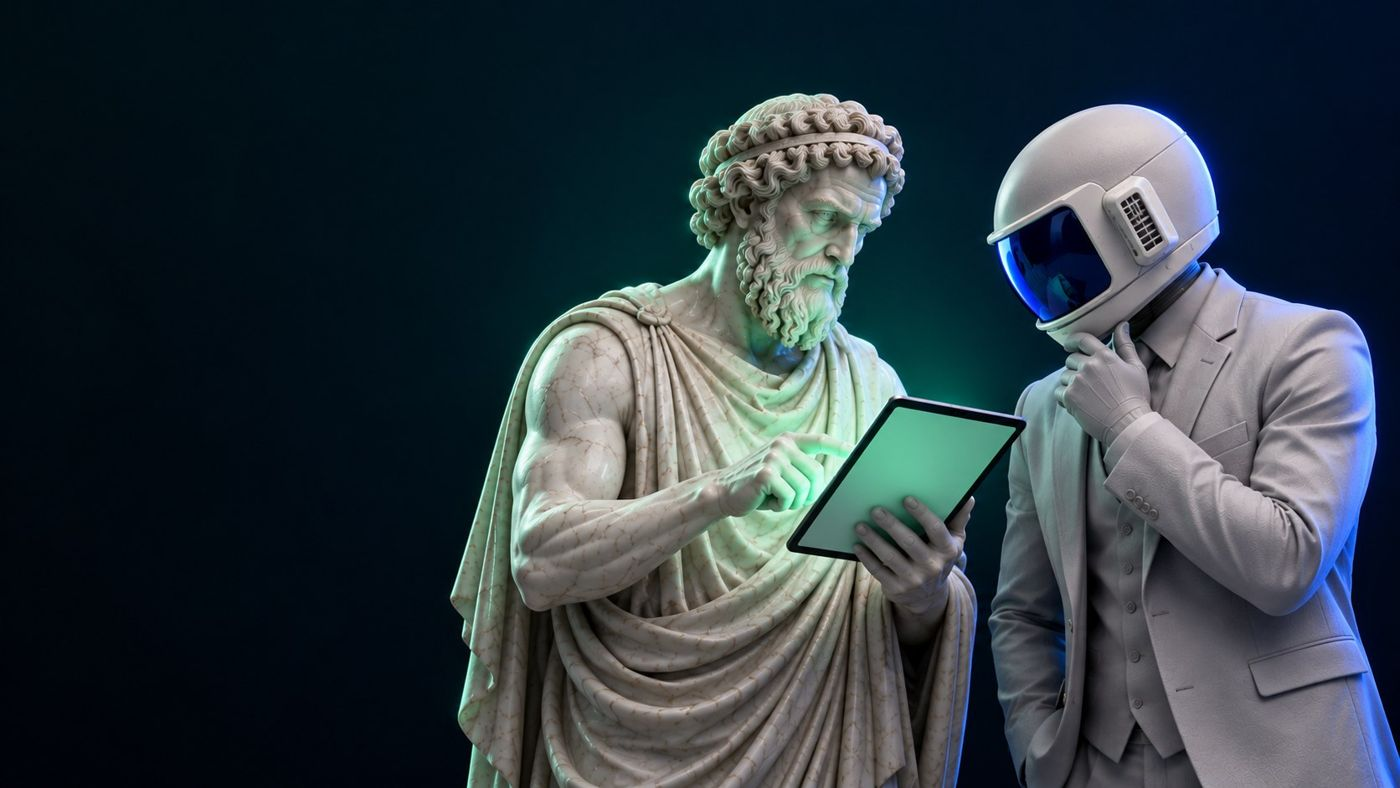
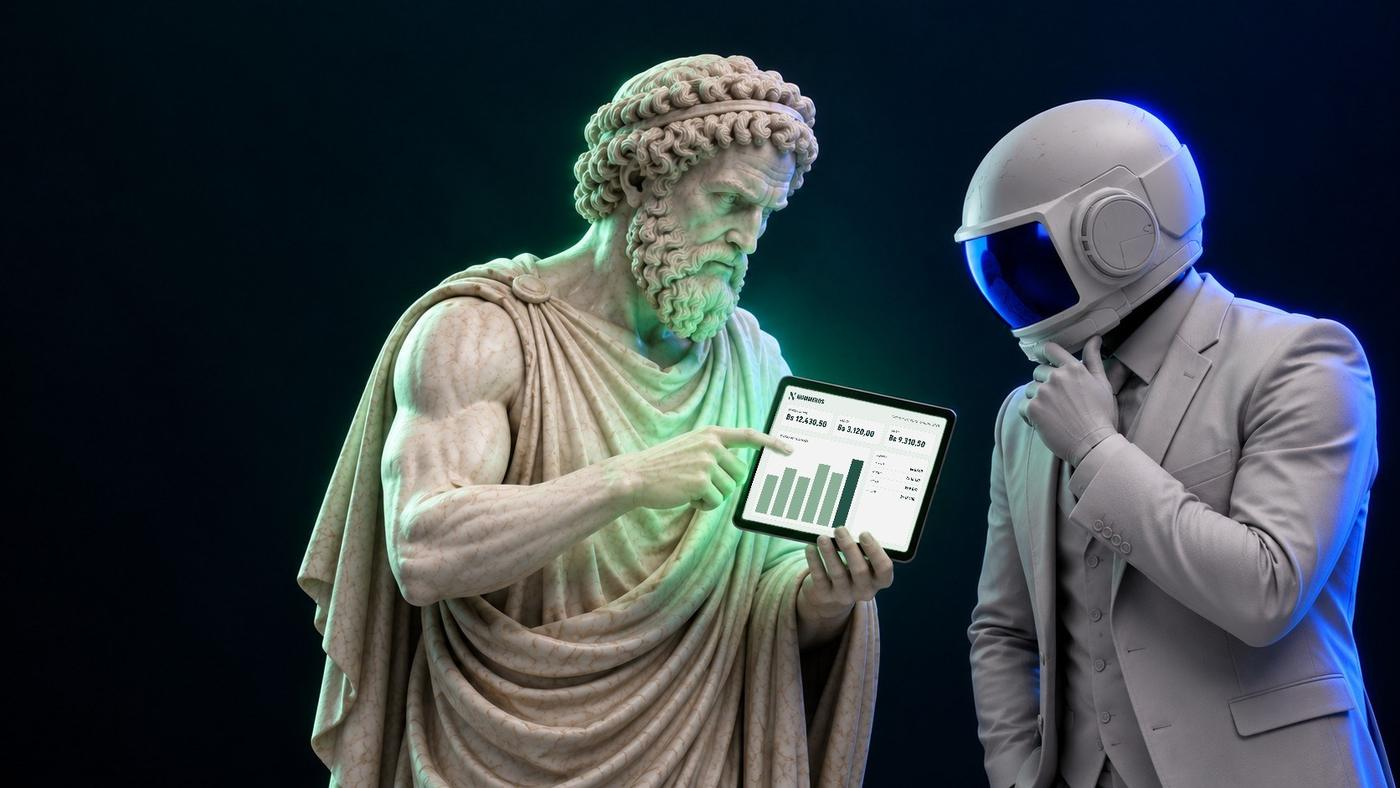
Pasarela: imagenes actualizadas desde Marca NUMMEROS (colaboracion y clasicos) y nueva imagen de bienvenida pasarela-pagos-pitagoras
Claude-Session: https://claude.ai/code/session_01NTEkejmDz9MXQD73WCdHWq

diff --git a/pagos.html b/pagos.html
@@ -297,7 +297,7 @@ if(mq&&mq.addEventListener)mq.addEventListener("change",aplicar);aplicar();})();
 <div class="shell">
 <aside class="lado" aria-hidden="true">
   <img class="logo" src="marca/logos/nummeros-logotipo-horizontal-blanco.svg" alt="">
-  <div class="marco" id="ladoMarco"><img id="ladoImg" src="marca/colaboracion/apreton-arquimedes.jpg" alt=""><span class="chip" id="ladoChip">NUMMEROS x CONTAX</span></div>
+  <div class="marco" id="ladoMarco"><img id="ladoImg" src="marca/colaboracion/pasarela-pagos-pitagoras-pantalla.jpg" alt=""><span class="chip" id="ladoChip">NUMMEROS x CONTAX</span></div>
   <div><h1 id="ladoTit">Paga tu servicio en un minuto</h1><p class="sub" id="ladoSub"></p></div>
   <ul>
     <li><i><svg width="18" height="18" viewBox="0 0 24 24" fill="none" stroke="#DAF1DE" stroke-width="1.8"><circle cx="12" cy="12" r="9"/><path d="M12 7v5l3 2"/></svg></i>Recepción al instante, las 24 horas</li>
@@ -395,7 +395,7 @@ if(mq&&mq.addEventListener)mq.addEventListener("change",aplicar);aplicar();})();
   // Imagen y mensaje de cada paso (colaboración NUMMEROS x CONTAX)
   var FOTOS = "marca/colaboracion/";
   var ESCENA = {
-    nit: ["apreton-arquimedes.jpg", "Bienvenido", "Paga tu servicio en un minuto", "Escribe tu NIT, elige el servicio, paga con QR y sube tu comprobante. Tu trámite queda recepcionado al instante."],
+    nit: ["pasarela-pagos-pitagoras-pantalla.jpg", "Bienvenido", "Paga tu servicio en un minuto", "Escribe tu NIT, elige el servicio, paga con QR y sube tu comprobante. Tu trámite queda recepcionado al instante."],
     datos: ["pitagoras-saludo-oscuro.jpg", "Te reconocimos", "Qué bueno verte de nuevo", "Con tu NIT completamos tus datos. Sin registros ni contraseñas."],
     servicio: ["reunion-sala.jpg", "Nuestros servicios", "Todo tu trabajo contable en un solo lugar", "Declaraciones mensuales, estados financieros y facturación, con el equipo de CONTAX a tu lado."],
     opcion: ["pitagoras-muestra-sistema.jpg", "Precios claros", "Elige lo que mejor te queda", "Sin letras chicas: ves el precio exacto antes de pagar."],
